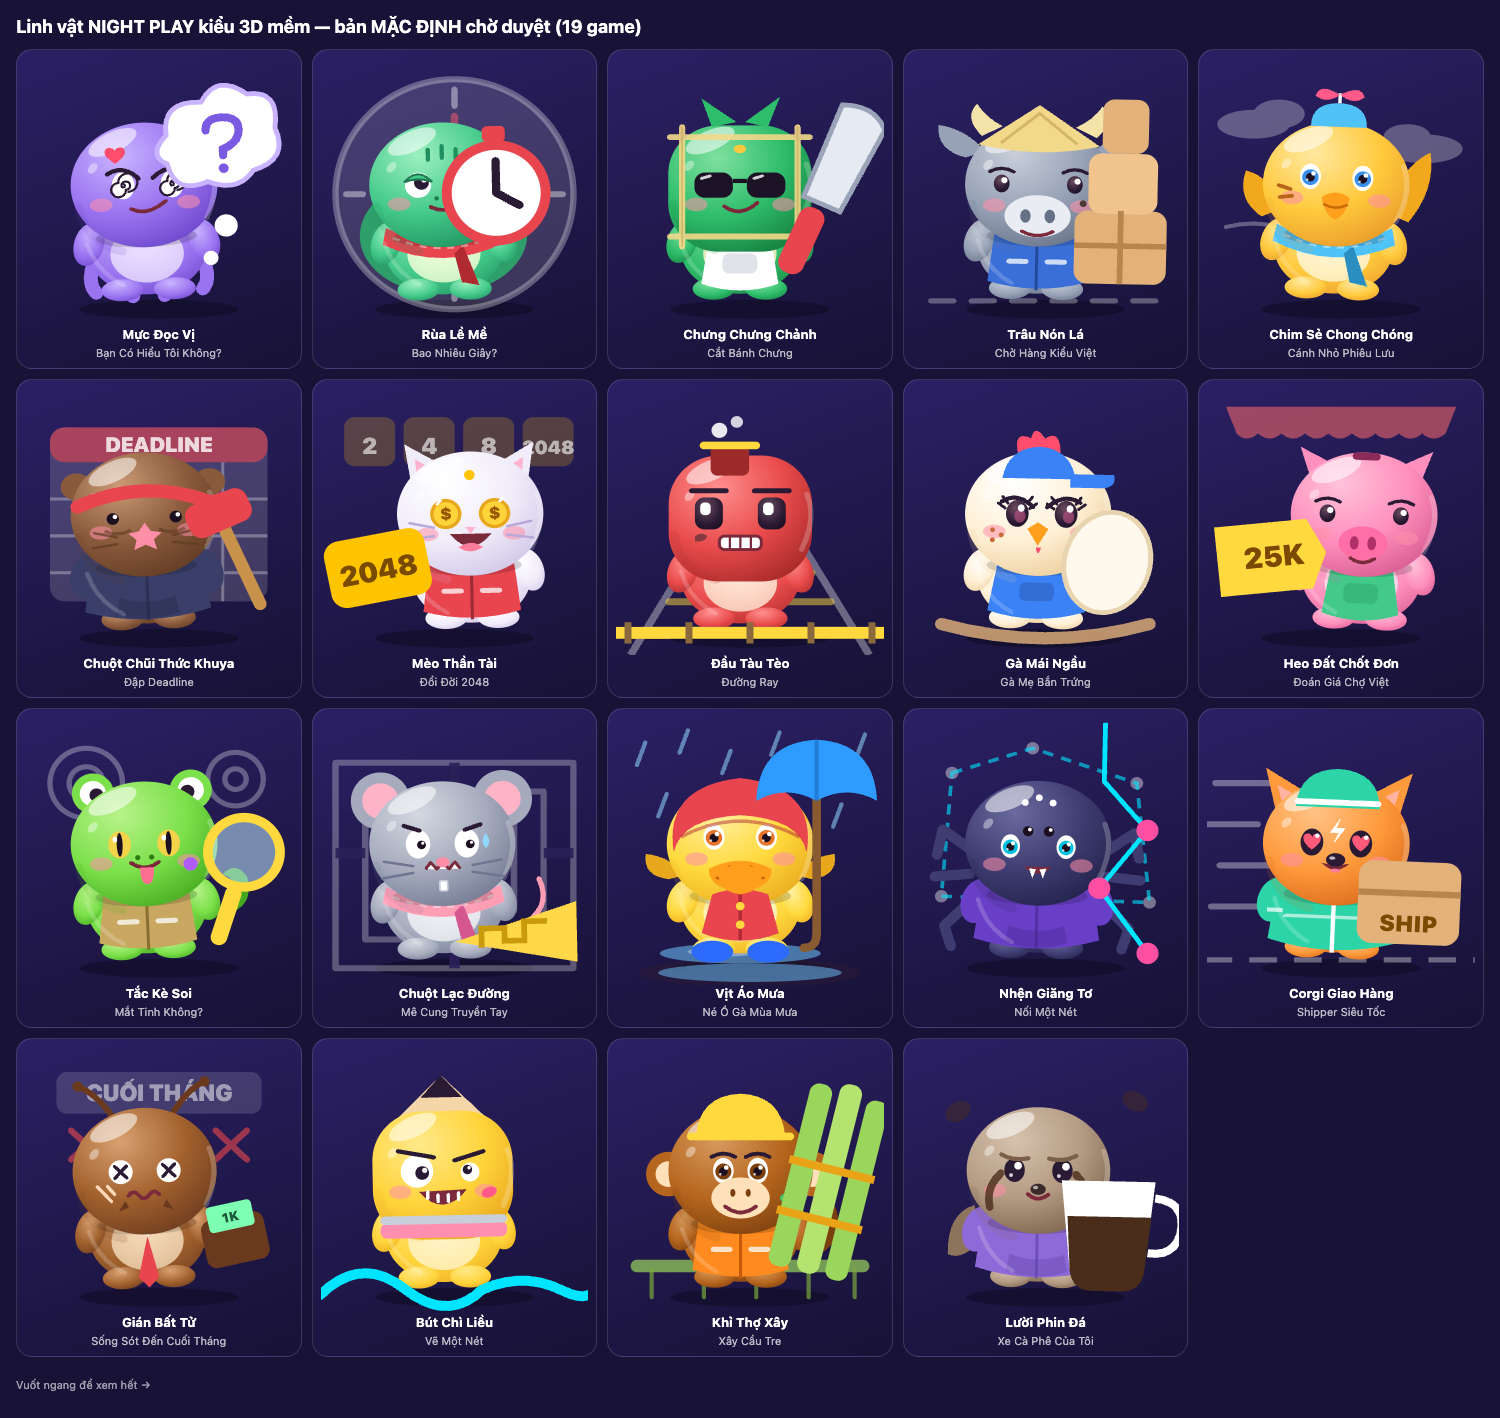
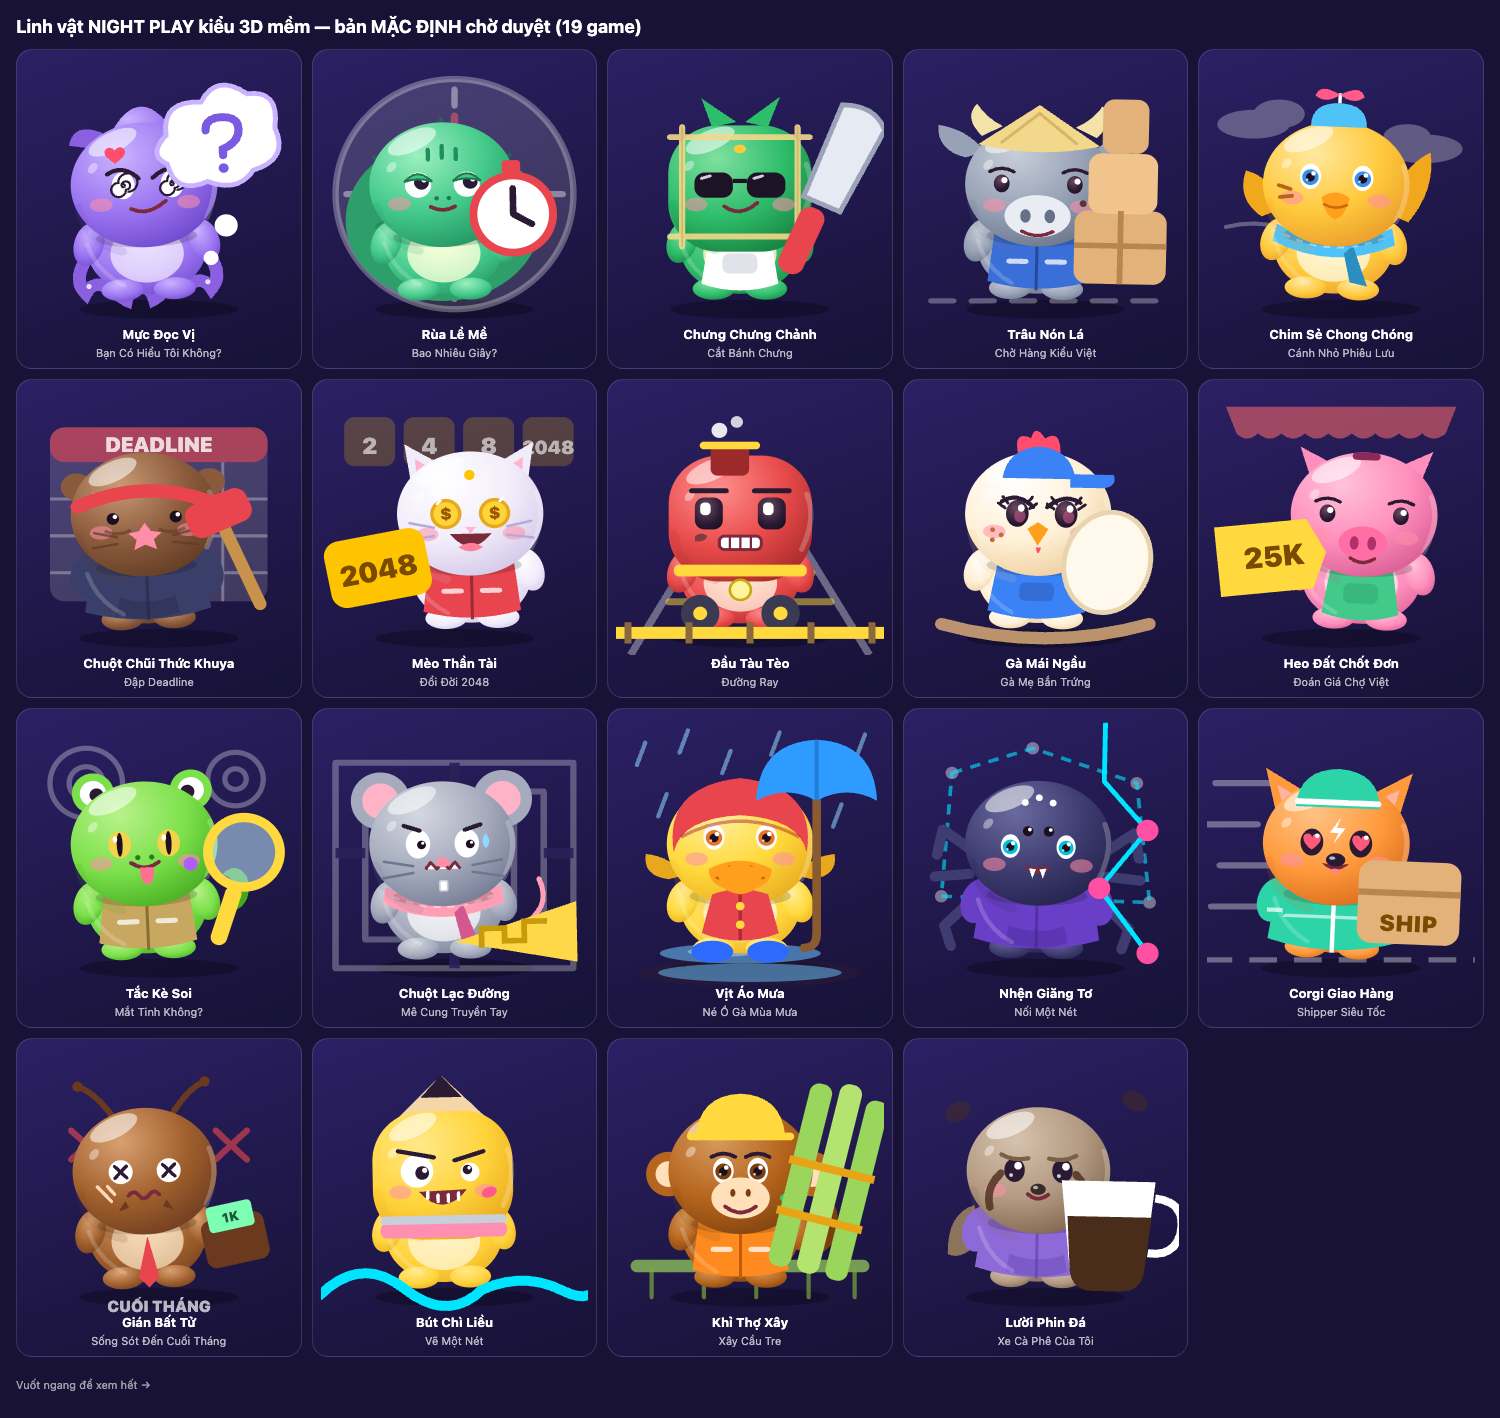
Night 3D: Mực có mũ mực + xúc tu, Rùa có mai lớn, Đầu tàu có bánh xe + đèn pha, Gián nhãn CUỐI THÁNG xuống dưới

diff --git a/scripts/art/gen-night3d.js b/scripts/art/gen-night3d.js
@@ -50,10 +50,10 @@ const def = (id, o) => { G[id] = o; };
 const bean = (c) => ({ c });
 /* c = [sáng, chính, tối, bụng] */
 def("ban-co-hieu-toi", { name: "Bạn Có Hiểu Tôi Không?", hero: "Mực Đọc Vị", mt: "trái tim nhỏ trên má", prop: "bong bóng suy nghĩ có dấu ?", c: ["#C9B3FF", "#9A74F0", "#6A44C8", "#EADFFF"], face: "sly", fx: '', head: 0,
-  back: '<path d="M70 190q-14 30 -2 44M104 200q-6 30 6 40M152 200q6 30 -6 40M188 190q14 30 2 44" fill="none" stroke="#9A74F0" stroke-width="16" stroke-linecap="round"/>', ears: '', top: '', mark: '<g id="mark"><path d="M96 66c-6-9-17 0-9 8l9 8 9-8c8-8-3-17-9-8z" fill="#FF4D6D"/></g>',
+  back: '<path d="M62 188q-22 28 -6 46q8 -14 22 -8M96 200q-14 34 6 44q4 -16 16 -14M140 200q14 34 -6 44q-4 -16 -16 -14M194 188q22 28 6 46q-8 -14 -22 -8" fill="none" stroke="#8A5FE0" stroke-width="15" stroke-linecap="round"/><g fill="#EADFFF"><circle cx="60" cy="226" r="3"/><circle cx="104" cy="236" r="3"/><circle cx="152" cy="236" r="3"/><circle cx="196" cy="226" r="3"/></g>', ears: '<path d="M80 70Q128 -40 176 70Z" fill="url(#h)"/><path d="M82 44Q50 30 44 58Q66 62 90 66ZM174 44Q206 30 212 58Q190 62 166 66Z" fill="#8A5FE0"/>', top: '', mark: '<g id="mark"><path d="M96 66c-6-9-17 0-9 8l9 8 9-8c8-8-3-17-9-8z" fill="#FF4D6D"/></g>',
   sign: '<g id="sign"><circle cx="214" cy="104" r="7" fill="#fff"/><circle cx="204" cy="124" r="4.5" fill="#fff"/><path d="M180 46Q178 24 202 26Q212 8 230 22Q250 20 246 44Q254 64 232 70Q222 84 204 76Q184 84 180 64Q168 58 180 46Z" fill="#fff" stroke="#C9B3FF" stroke-width="3"/><path d="M204 44Q204 36 214 36Q224 36 224 44Q224 52 214 56V60" fill="none" stroke="#7A5AE0" stroke-width="5" stroke-linecap="round"/><circle cx="214" cy="68" r="3" fill="#7A5AE0"/></g>' });
 def("bao-nhieu-giay", { name: "Bao Nhiêu Giây?", hero: "Rùa Lề Mề", mt: "ba vạch trên trán", prop: "đồng hồ bấm giây", c: ["#9CF0C0", "#43C98A", "#1F8F5E", "#F3FFD8"], face: "turtle", fx: '<circle cx="121" cy="124" r="2.6" fill="#1F7A50"/><circle cx="135" cy="124" r="2.6" fill="#1F7A50"/>', head: 0,
-  back: E(128, 168, 96, 70, '#2E9E6A') + '<path d="M70 150Q128 90 186 150" fill="none" stroke="#1F7A50" stroke-width="6" opacity=".5"/>', ears: '', top: '', mark: '<g id="mark" stroke="#1F8F5E" stroke-width="5" stroke-linecap="round"><path d="M112 66v12M128 62v14M144 66v12"/></g>',
+  back: '<ellipse cx="128" cy="150" rx="112" ry="96" fill="#2E9E6A"/><path d="M128 66L172 90V136L128 160L84 136V90Z" fill="none" stroke="#1F7A50" stroke-width="5" opacity=".55"/><path d="M128 66V30M172 90L206 74M84 90L50 74M172 136L204 156M84 136L52 156" stroke="#1F7A50" stroke-width="5" opacity=".5" stroke-linecap="round"/>', ears: '', top: '', mark: '<g id="mark" stroke="#1F8F5E" stroke-width="5" stroke-linecap="round"><path d="M112 66v12M128 62v14M144 66v12"/></g>',
   sign: '<g id="sign"><rect x="190" y="124" width="14" height="10" rx="3" fill="#E8454F"/><circle cx="198" cy="166" r="30" fill="#fff" stroke="#E8454F" stroke-width="6"/><path d="M198 166V146M198 166L212 174" stroke="#2A1A33" stroke-width="5" stroke-linecap="round"/></g>' });
 def("cat-banh-chung", { name: "Cắt Bánh Chưng", hero: "Chưng Chưng Chảnh", mt: "hạt đậu vàng trên trán", prop: "con dao cắt bánh", c: ["#7FE0A0", "#2EBD6B", "#17803F", "#FFF3C8"], face: "cool", head: 0, square: 1,
   back: '', ears: '', top: '<path d="M48 52H208M48 170H208M62 40V182M194 40V182" stroke="#F2D88A" stroke-width="7" stroke-linecap="round" opacity=".9"/><path d="M62 40V182M194 40V182" stroke="#C9A85A" stroke-width="2" opacity=".6"/><path d="M96 40L84 6L124 34ZM160 40L174 4L134 34Z" fill="#2EBD6B"/>', mark: E(128, 66, 7, 5, '#FFC83D', 'id="mark"'),
@@ -71,7 +71,7 @@ def("doi-doi-2048", { name: "Đổi Đời 2048", hero: "Mèo Thần Tài", mt: 
   back: '', ears: '<path d="M62 78L54 24L108 56Z" fill="#F1ECFA"/><path d="M194 78L202 24L148 56Z" fill="#F1ECFA"/><path d="M68 70L66 42L92 58Z" fill="#FFB3CF"/><path d="M188 70L190 42L164 58Z" fill="#FFB3CF"/>', top: '', mark: E(128, 62, 6, 6, '#FFC400', 'id="mark"'),
   sign: '<g id="sign"><rect x="8" y="170" width="64" height="44" rx="10" fill="#FFC400" transform="rotate(-10 40 192)"/><text x="40" y="200" text-anchor="middle" font-family="Inter,system-ui,sans-serif" font-weight="900" font-size="18" fill="#7A4A00" transform="rotate(-10 40 192)">2048</text></g>' });
 def("duong-ray", { name: "Đường Ray", hero: "Đầu Tàu Tèo", mt: "vệt than trên má", prop: "ống khói + đường ray", c: ["#FF8F8F", "#E94B4B", "#A82A2A", "#FFE9D6"], face: "square", head: 0, square: 1,
-  back: '', ears: '', top: '<rect x="94" y="22" width="44" height="40" rx="8" fill="#9C2A2A"/><path d="M86 26H146" stroke="#FFD93D" stroke-width="9" stroke-linecap="round"/><circle cx="104" cy="8" r="9" fill="#fff" opacity=".9"/><circle cx="124" cy="-2" r="7" fill="#fff" opacity=".8"/>', mark: '<path id="mark" d="M76 134q8-6 14 0q-2 8-14 6z" fill="#3A2A33" opacity=".6"/>',
+  back: '', ears: '', top: '<rect x="94" y="22" width="44" height="40" rx="8" fill="#9C2A2A"/><path d="M86 26H146" stroke="#FFD93D" stroke-width="9" stroke-linecap="round"/><circle cx="104" cy="8" r="9" fill="#fff" opacity=".9"/><circle cx="124" cy="-2" r="7" fill="#fff" opacity=".8"/><rect x="52" y="168" width="152" height="14" rx="6" fill="#FFD93D"/><circle cx="128" cy="198" r="12" fill="#FFF3A0" stroke="#C8A80A" stroke-width="3"/><circle cx="82" cy="226" r="22" fill="#3A3A52"/><circle cx="82" cy="226" r="8" fill="#FFD93D"/><circle cx="174" cy="226" r="22" fill="#3A3A52"/><circle cx="174" cy="226" r="8" fill="#FFD93D"/>', mark: '<path id="mark" d="M76 134q8-6 14 0q-2 8-14 6z" fill="#3A2A33" opacity=".6"/>',
   sign: '<g id="sign"><path d="M14 238H242" stroke="#FFD93D" stroke-width="9" stroke-linecap="round"/><path d="M40 230V246M84 230V246M128 230V246M172 230V246M216 230V246" stroke="#8A6A3C" stroke-width="5"/></g>' });
 def("ga-me-ban-trung", { name: "Gà Mẹ Bắn Trứng", hero: "Gà Mái Ngầu", mt: "ba tàn nhang má trái", prop: "quả trứng + mũ lưỡi trai", c: ["#FFFFFF", "#FFF0D6", "#EBCB98", "#FFF8EA"], face: "slyE", fx: '<path d="M116 126L128 118L140 126L128 146Z" fill="#FF9F1C"/><path d="M126 148q2 14 6 0z" fill="#FF4D6D"/>', head: 0,
   back: '', ears: '', top: '<path d="M104 40Q96 8 118 18Q122 0 134 18Q152 6 152 36Z" fill="#FF4D6D"/><path d="M86 66Q92 30 128 28Q164 30 170 66Z" fill="#3B82F6"/><path d="M164 60H214Q218 74 202 76H164Z" fill="#3B82F6"/>', mark: '<g id="mark" fill="#C8693A"><circle cx="76" cy="128" r="2.8"/><circle cx="86" cy="134" r="2.8"/><circle cx="76" cy="140" r="2.8"/></g>',
@@ -116,7 +116,7 @@ const scarf = (c, d) => `<path d="M62 158Q128 190 194 158L198 178Q128 212 58 178
 const vest = (c, d) => `<path d="M80 158Q128 176 176 158L184 224Q128 240 72 224Z" fill="${c}"/><path d="M128 170V234" stroke="${d}" stroke-width="3.5"/><path d="M96 200H116M140 200H160" stroke="#fff" stroke-width="6" stroke-linecap="round" opacity=".75"/>`;
 const bow = (c) => `<path d="M128 166L106 154V178ZM128 166L150 154V178Z" fill="${c}"/><circle cx="128" cy="166" r="6" fill="${c}"/><circle cx="128" cy="166" r="6" fill="#fff" opacity=".25"/>`;
 const jacket = (c, d, st) => `<path d="M62 162Q128 140 194 162L202 224Q128 246 54 224Z" fill="${c}"/><path d="M128 150V238" stroke="${st}" stroke-width="5"/><path d="M62 162Q128 140 194 162" fill="none" stroke="${st}" stroke-width="6" opacity=".7"/><path d="M70 196H186" stroke="${st}" stroke-width="4" opacity=".6"/><ellipse cx="60" cy="178" rx="19" ry="27" fill="${c}" transform="rotate(18 60 178)"/><ellipse cx="196" cy="178" rx="19" ry="27" fill="${c}" transform="rotate(-18 196 178)"/><path d="M52 190H70M186 190H204" stroke="${st}" stroke-width="5" opacity=".7"/>`;
-const OUT = { "ban-co-hieu-toi": bow("#FF4D6D"), "bao-nhieu-giay": scarf("#E8454F", "#B02A32"), "cat-banh-chung": apron("#fff", "#9AA3B8"), "cho-hang-kieu-viet": vest("#3A6FD8", "#244A9A"), "cozy-wings": scarf("#4FC3F7", "#2A8FC0"), "dap-deadline": hoodie("#3A3F6A", "#222645"), "doi-doi-2048": vest("#E8454F", "#9C2A33") + bow("#FFC400"), "duong-ray": "", "ga-me-ban-trung": overalls("#3B82F6", "#244A9A"), "gia-cho-viet": apron("#43C98A", "#1F8F5E"), "mat-tinh-khong": vest("#C8A860", "#8A7030"), "me-cung-truyen-tay": scarf("#FF9EB5", "#D5578F"), "ne-o-ga": "", "noi-mot-net": hoodie("#6A3FC8", "#43268A"), "shipper-sieu-toc": jacket("#2DD4A8", "#1F8F72", "#fff"), "song-sot-cuoi-thang": `<path d="M100 164L128 184L156 164L150 150H106Z" fill="#fff"/><path d="M128 184L116 232L128 244L140 232Z" fill="#E8454F"/>`, "ve-mot-net": bow("#E8454F"), "xay-cau-tre": vest("#FF8A1F", "#C25A0A"), "xe-ca-phe": hoodie("#8E6AD8", "#5A3FA8") };
+const OUT = { "ban-co-hieu-toi": bow("#FF4D6D"), "bao-nhieu-giay": "", "cat-banh-chung": apron("#fff", "#9AA3B8"), "cho-hang-kieu-viet": vest("#3A6FD8", "#244A9A"), "cozy-wings": scarf("#4FC3F7", "#2A8FC0"), "dap-deadline": hoodie("#3A3F6A", "#222645"), "doi-doi-2048": vest("#E8454F", "#9C2A33") + bow("#FFC400"), "duong-ray": "", "ga-me-ban-trung": overalls("#3B82F6", "#244A9A"), "gia-cho-viet": apron("#43C98A", "#1F8F5E"), "mat-tinh-khong": vest("#C8A860", "#8A7030"), "me-cung-truyen-tay": scarf("#FF9EB5", "#D5578F"), "ne-o-ga": "", "noi-mot-net": hoodie("#6A3FC8", "#43268A"), "shipper-sieu-toc": jacket("#2DD4A8", "#1F8F72", "#fff"), "song-sot-cuoi-thang": `<path d="M100 164L128 184L156 164L150 150H106Z" fill="#fff"/><path d="M128 184L116 232L128 244L140 232Z" fill="#E8454F"/>`, "ve-mot-net": bow("#E8454F"), "xay-cau-tre": vest("#FF8A1F", "#C25A0A"), "xe-ca-phe": hoodie("#8E6AD8", "#5A3FA8") };
 const SCENE = {
  "ban-co-hieu-toi": '',
  "bao-nhieu-giay": '<circle cx="128" cy="128" r="112" fill="#fff" opacity=".14"/><circle cx="128" cy="128" r="112" fill="none" stroke="#fff" stroke-width="6" opacity=".3"/><g stroke="#fff" stroke-width="6" stroke-linecap="round" opacity=".4"><path d="M128 26v16M128 214v16M26 128h16M214 128h16"/></g><path d="M128 128L128 52M128 128L188 150" stroke="#FF5A6E" stroke-width="7" stroke-linecap="round" opacity=".5"/>',
@@ -133,12 +133,12 @@ const SCENE = {
  "ne-o-ga": '<g stroke="#8FD8FF" stroke-width="4" stroke-linecap="round" opacity=".55"><path d="M30 20l-8 22M70 8l-8 22M110 28l-8 22M156 10l-8 22M200 26l-8 22M236 12l-8 22M50 70l-8 22M214 80l-8 22"/></g><ellipse cx="128" cy="244" rx="104" ry="14" fill="#2A1A33" opacity=".5"/><ellipse cx="128" cy="244" rx="86" ry="9" fill="#6EC6FF" opacity=".5"/>',
  "noi-mot-net": '<g fill="#fff" opacity=".4"><circle cx="40" cy="50" r="6"/><circle cx="116" cy="26" r="6"/><circle cx="214" cy="60" r="6"/><circle cx="30" cy="170" r="6"/><circle cx="226" cy="176" r="6"/></g><path d="M40 50L116 26L214 60L226 176L30 170Z" fill="none" stroke="#00E5FF" stroke-width="3.5" opacity=".6" stroke-dasharray="10 8"/>',
  "shipper-sieu-toc": '<g stroke="#fff" stroke-width="6" stroke-linecap="round" opacity=".35"><path d="M10 60H70M0 100H50M14 140H64M6 180H56"/></g><path d="M0 232H256" stroke="#fff" stroke-width="5" stroke-dasharray="26 16" opacity=".35"/>',
- "song-sot-cuoi-thang": '<rect x="30" y="24" width="196" height="40" rx="10" fill="#fff" opacity=".14"/><text x="128" y="52" text-anchor="middle" font-family="Inter,system-ui,sans-serif" font-weight="900" font-size="22" fill="#fff" opacity=".5">CUỐI THÁNG</text><g stroke="#FF4D4D" stroke-width="6" stroke-linecap="round" opacity=".55"><path d="M44 80l30 28M74 80L44 108M182 80l30 28M212 80l-30 28"/></g>',
+ "song-sot-cuoi-thang": '<text x="128" y="254" text-anchor="middle" font-family="Inter,system-ui,sans-serif" font-weight="900" font-size="15" fill="#fff" opacity=".7">CUỐI THÁNG</text><g stroke="#FF4D4D" stroke-width="6" stroke-linecap="round" opacity=".55"><path d="M44 80l30 28M74 80L44 108M182 80l30 28M212 80l-30 28"/></g>',
  "ve-mot-net": '',
  "xay-cau-tre": '<g fill="#9BD65C" opacity=".7"><rect x="14" y="204" width="228" height="12" rx="6"/></g><g stroke="#7AA83C" stroke-width="4" opacity=".7" stroke-linecap="round"><path d="M34 214V240M84 214V240M134 214V240M184 214V240M228 214V240"/></g>',
  "xe-ca-phe": '<g fill="#4A2C1A" opacity=".45"><ellipse cx="44" cy="62" rx="13" ry="9" transform="rotate(-30 44 62)"/><ellipse cx="214" cy="52" rx="13" ry="9" transform="rotate(25 214 52)"/></g>'
 };
-const PS = { "dap-deadline": 1.0, "song-sot-cuoi-thang": 1.05, "mat-tinh-khong": 1.3, "doi-doi-2048": 1.5, "duong-ray": 1.3, "ve-mot-net": 1.2, "noi-mot-net": 1.3, "ne-o-ga": 1.35 };
+const PS = { "bao-nhieu-giay": 1.25, "dap-deadline": 1.0, "song-sot-cuoi-thang": 1.05, "mat-tinh-khong": 1.3, "doi-doi-2048": 1.5, "duong-ray": 1.3, "ve-mot-net": 1.2, "noi-mot-net": 1.3, "ne-o-ga": 1.35 };
 const AX = { "doi-doi-2048": [6, 236], "gia-cho-viet": [6, 236], "ve-mot-net": [128, 250], "duong-ray": [128, 250], "noi-mot-net": [250, 0], "ban-co-hieu-toi": [250, 0], "mat-tinh-khong": [250, 236], "dap-deadline": [250, 236] };
 const PX = { "doi-doi-2048": 40, "gia-cho-viet": 40 };
 const EST = { "ban-co-hieu-toi": "spiral", "cozy-wings": "ring:#3A8FE8", "ga-me-ban-trung": "lash", "gia-cho-viet": "star", "me-cung-truyen-tay": "wideWhite", "ne-o-ga": "ring:#E8742A", "xay-cau-tre": "ring:#7A3F0E", "mat-tinh-khong": "slit", "shipper-sieu-toc": "heart", "cho-hang-kieu-viet": "lash", "noi-mot-net": "ring:#00C2E0", "dap-deadline": "", "xe-ca-phe": "" };
